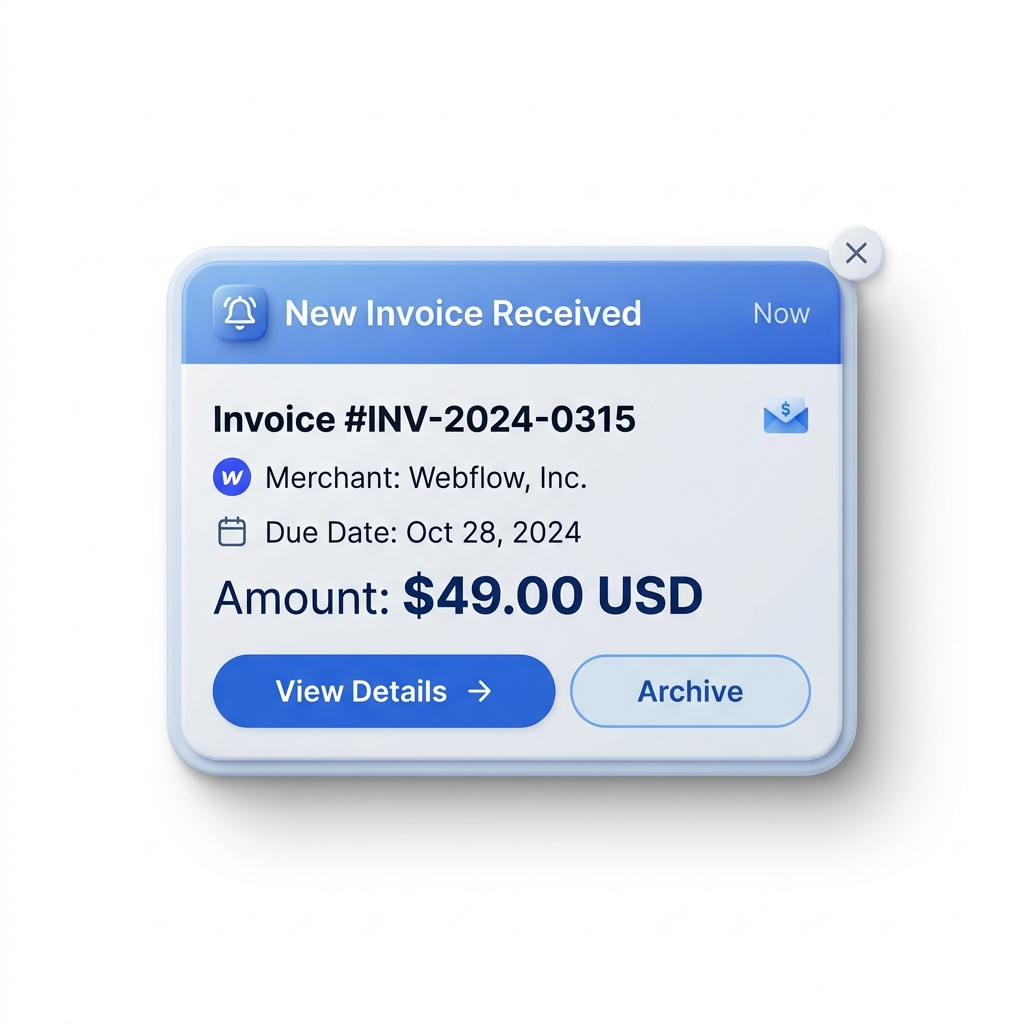
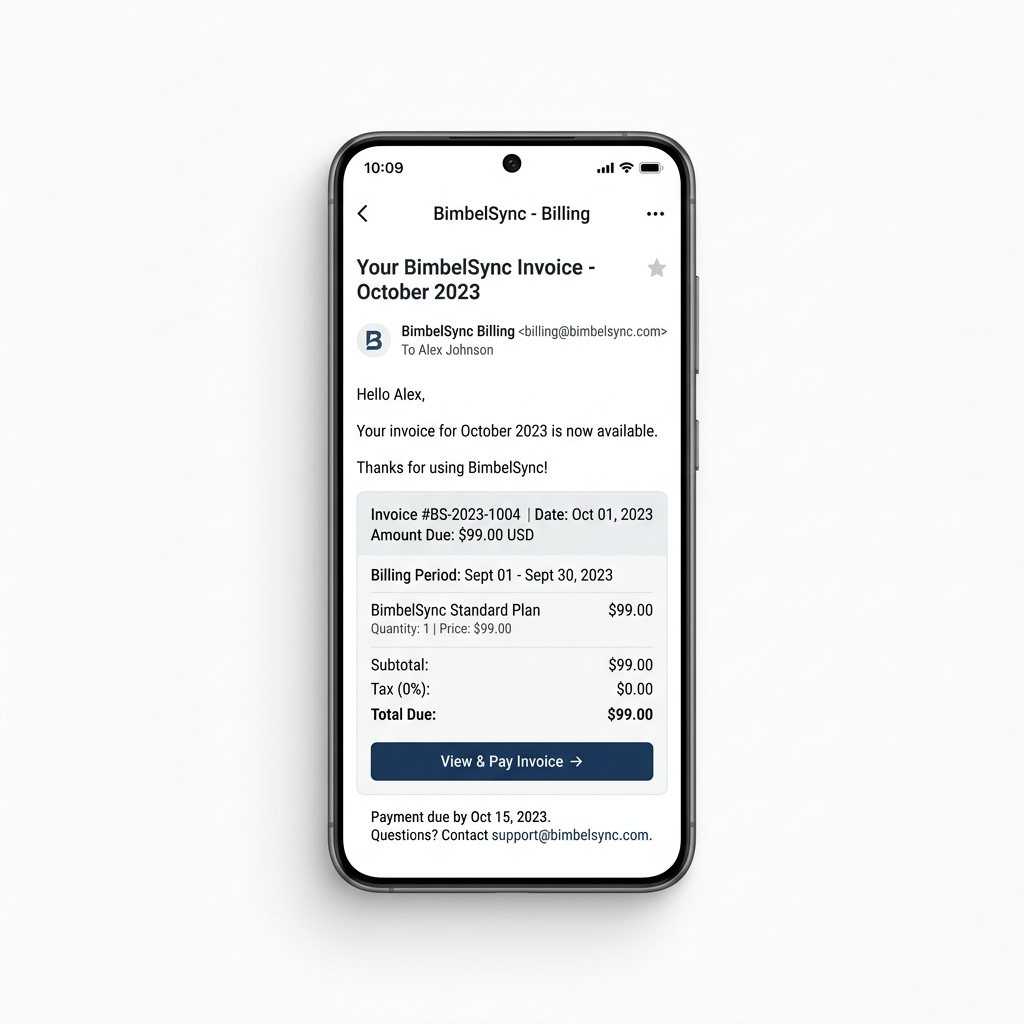
feat: add landing page component and email background asset

diff --git a/src/app/page.tsx b/src/app/page.tsx
@@ -112,25 +112,25 @@ export default async function LandingPage() {
         </FadeInView>
 
         <FadeInView direction="up" delay={0.6}>
-          <div className="relative max-w-5xl mx-auto rounded-3xl overflow-hidden border border-slate-200/90 shadow-xl bg-white text-left p-2 sm:p-3">
-            {/* Light Mode YouTube Window Header */}
-            <div className="bg-slate-100/90 backdrop-blur-sm rounded-2xl px-4 py-2.5 flex items-center justify-between border border-slate-200/80 mb-2">
+          <div className="relative max-w-4xl mx-auto rounded-3xl overflow-hidden border border-slate-800/80 shadow-2xl shadow-blue-900/20 bg-slate-900/90 backdrop-blur-md text-left p-2 sm:p-3 ring-1 ring-white/10">
+            {/* Dark Mode YouTube Window Header */}
+            <div className="bg-slate-800/90 rounded-2xl px-4 py-2.5 flex items-center justify-between border border-slate-700 mb-2">
               <div className="flex items-center gap-2">
-                <div className="w-3 h-3 rounded-full bg-rose-400"></div>
-                <div className="w-3 h-3 rounded-full bg-amber-400"></div>
-                <div className="w-3 h-3 rounded-full bg-emerald-400"></div>
-                <div className="ml-3 px-3 py-1 bg-white rounded-lg text-slate-600 text-xs font-mono flex items-center gap-2 border border-slate-200 shadow-2xs">
-                  <svg className="w-3.5 h-3.5 text-red-600 shrink-0" fill="currentColor" viewBox="0 0 24 24"><path d="M23.498 6.186a3.016 3.016 0 0 0-2.122-2.136C19.505 3.545 12 3.545 12 3.545s-7.505 0-9.377.505A3.017 3.017 0 0 0 .502 6.186C0 8.07 0 12 0 12s0 3.93.502 5.814a3.016 3.016 0 0 0 2.122 2.136c1.871.505 9.376.505 9.376.505s7.505 0 9.377-.505a3.015 3.015 0 0 0 2.122-2.136C24 15.93 24 12 24 12s0-3.93-.502-5.814zM9.545 15.568V8.432L15.818 12l-6.273 3.568z"/></svg>
-                  <span className="font-semibold text-slate-800">youtube.com</span>/watch?v=bimbelsync-demo
+                <div className="w-3 h-3 rounded-full bg-slate-600"></div>
+                <div className="w-3 h-3 rounded-full bg-slate-600"></div>
+                <div className="w-3 h-3 rounded-full bg-slate-600"></div>
+                <div className="ml-3 px-3 py-1 bg-slate-900 rounded-lg text-slate-400 text-xs font-mono flex items-center gap-2 border border-slate-700">
+                  <svg className="w-3.5 h-3.5 text-red-500 shrink-0" fill="currentColor" viewBox="0 0 24 24"><path d="M23.498 6.186a3.016 3.016 0 0 0-2.122-2.136C19.505 3.545 12 3.545 12 3.545s-7.505 0-9.377.505A3.017 3.017 0 0 0 .502 6.186C0 8.07 0 12 0 12s0 3.93.502 5.814a3.016 3.016 0 0 0 2.122 2.136c1.871.505 9.376.505 9.376.505s7.505 0 9.377-.505a3.015 3.015 0 0 0 2.122-2.136C24 15.93 24 12 24 12s0-3.93-.502-5.814zM9.545 15.568V8.432L15.818 12l-6.273 3.568z"/></svg>
+                  <span className="font-semibold text-slate-200">youtube.com</span>/watch?v=bimbelsync-demo
                 </div>
               </div>
-              <span className="text-xs font-semibold text-slate-500 bg-white px-3 py-1 rounded-full border border-slate-200 hidden sm:inline-block shadow-2xs">
+              <span className="text-xs font-semibold text-slate-400 bg-slate-800 px-3 py-1 rounded-full border border-slate-700 hidden sm:inline-block">
                 Demo Video BimbelSync
               </span>
             </div>
 
-            {/* Light Frame Container for YouTube Embed */}
-            <div className="rounded-xl overflow-hidden aspect-video bg-black relative border border-slate-200">
+            {/* Dark Frame Container for YouTube Embed */}
+            <div className="rounded-xl overflow-hidden aspect-video bg-black relative border border-slate-800">
               <iframe 
                 width="100%" 
                 height="100%" 
@@ -244,95 +244,8 @@ export default async function LandingPage() {
           <FadeInView direction="up" delay={0.4}>
             <div className="flex flex-col md:flex-row gap-12 items-center group p-6 sm:p-10 rounded-3xl transition-all duration-500 hover:bg-white hover:shadow-[0_10px_40px_rgba(59,130,246,0.1)] border border-transparent hover:border-blue-100">
             <div className="flex-1 w-full flex justify-center">
-               {/* Mobile Phone Mockup for Email Tagihan (Scaled to match other features) */}
-               <div className="relative mx-auto w-[205px] sm:w-[215px] h-[425px] bg-slate-900 rounded-[38px] p-2.5 shadow-xl border-[3px] border-slate-800 ring-1 ring-slate-900/10 group-hover:scale-105 transition-transform duration-500">
-                 {/* Phone Dynamic Island */}
-                 <div className="absolute top-4 left-1/2 -translate-x-1/2 w-20 h-3.5 bg-slate-900 rounded-full z-20 flex items-center justify-center gap-1.5">
-                   <div className="w-2 h-2 rounded-full bg-slate-950"></div>
-                   <div className="w-1.5 h-1.5 rounded-full bg-blue-900/60"></div>
-                 </div>
-
-                 {/* Phone Screen */}
-                 <div className="w-full h-full bg-slate-50 rounded-[28px] overflow-hidden flex flex-col pt-5 relative text-left font-sans">
-                   {/* Status Bar */}
-                   <div className="px-4 pt-0.5 pb-1 flex justify-between items-center text-[9px] font-bold text-slate-800">
-                     <span>09:41</span>
-                     <div className="flex items-center gap-1">
-                       <span className="text-[8px] font-mono">5G</span>
-                       <div className="w-3.5 h-1.5 border border-slate-800 rounded-2xs p-0.5"><div className="w-full h-full bg-slate-800"></div></div>
-                     </div>
-                   </div>
-
-                   {/* Email App Header */}
-                   <div className="px-3 py-1.5 border-b border-slate-200/80 bg-white flex items-center justify-between">
-                     <div className="flex items-center gap-1.5">
-                       <div className="w-5 h-5 rounded-full bg-blue-600 text-white font-black text-[10px] flex items-center justify-center">
-                         BS
-                       </div>
-                       <div>
-                         <p className="text-[10px] font-bold text-slate-900 leading-tight">BimbelSync Mail</p>
-                         <p className="text-[8px] text-slate-400">Kotak Masuk (1)</p>
-                       </div>
-                     </div>
-                     <span className="text-[8px] font-bold text-blue-600 bg-blue-50 px-1.5 py-0.5 rounded-full border border-blue-100">
-                       Baru
-                     </span>
-                   </div>
-
-                   {/* Email Body */}
-                   <div className="p-2.5 flex-1 space-y-2 bg-slate-50 overflow-hidden">
-                     <div className="bg-white p-2 rounded-xl border border-slate-200/70 shadow-2xs space-y-1">
-                       <div className="flex justify-between items-start">
-                         <div>
-                           <p className="text-[10px] font-extrabold text-slate-900">Finance BimbelSync</p>
-                           <p className="text-[8px] text-slate-400">ke: orangtua@gmail.com</p>
-                         </div>
-                         <span className="text-[8px] text-slate-400 font-medium">09:40</span>
-                       </div>
-                       <p className="text-[9.5px] font-bold text-slate-800 border-t border-slate-100 pt-1">
-                         Invoice Tagihan Bimbel Sept 2026
-                       </p>
-                     </div>
-
-                     <div className="bg-white p-2.5 rounded-xl border border-blue-100 shadow-2xs space-y-2">
-                       <div className="flex justify-between items-center">
-                         <span className="text-[8px] font-semibold text-slate-400 uppercase tracking-wider">No. Invoice</span>
-                         <span className="text-[10px] font-bold text-blue-600">#INV-2026-098</span>
-                       </div>
-
-                       <div className="space-y-0.5">
-                         <p className="text-slate-500 text-[9.5px]">Siswa: <strong className="text-slate-900">Ahmad Fauzi</strong></p>
-                         <p className="text-slate-500 text-[9.5px]">Program: <strong className="text-slate-900">Intensif UTBK</strong></p>
-                       </div>
-
-                       <div className="bg-slate-50 p-1.5 rounded-lg border border-slate-100 flex justify-between items-center">
-                         <span className="text-[9px] text-slate-600 font-medium">Total Tagihan</span>
-                         <span className="text-[11px] font-extrabold text-slate-900">Rp 350.000</span>
-                       </div>
-
-                       <div className="bg-blue-50 border border-blue-200/60 p-1.5 rounded-lg flex items-center gap-1.5">
-                         <div className="w-5 h-5 rounded-md bg-blue-600 text-white font-bold text-[8px] flex items-center justify-center shrink-0">
-                           PDF
-                         </div>
-                         <div className="min-w-0 flex-1">
-                           <p className="text-[9px] font-bold text-slate-800 truncate">Invoice_Ahmad_Sep2026.pdf</p>
-                           <p className="text-[7.5px] text-slate-400">142 KB • Lampiran Resmi</p>
-                         </div>
-                       </div>
-
-                       <div className="pt-0.5 flex items-center justify-center">
-                         <span className="text-[8px] font-extrabold text-emerald-700 bg-emerald-100 px-2 py-0.5 rounded-full border border-emerald-200 w-full text-center">
-                           ✓ Terkirim Otomatis via Email
-                         </span>
-                       </div>
-                     </div>
-                   </div>
-
-                   {/* Home Bar */}
-                   <div className="pb-1.5 pt-0.5 flex justify-center bg-slate-50">
-                     <div className="w-20 h-1 bg-slate-300 rounded-full"></div>
-                   </div>
-                 </div>
+               <div className="relative">
+                  <img src="/features/email-bg.png" alt="Mockup Email Tagihan" className="w-full max-w-sm h-auto object-contain drop-shadow-md opacity-90 group-hover:scale-105 transition-transform duration-500" />
                </div>
             </div>
             <div className="flex-1">
